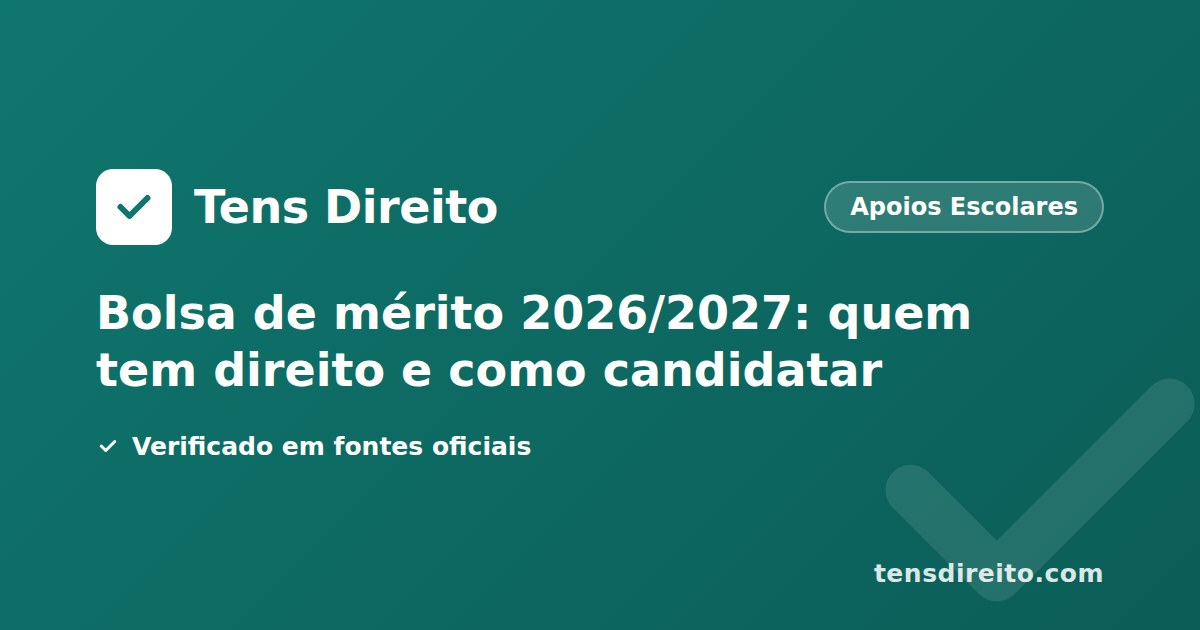
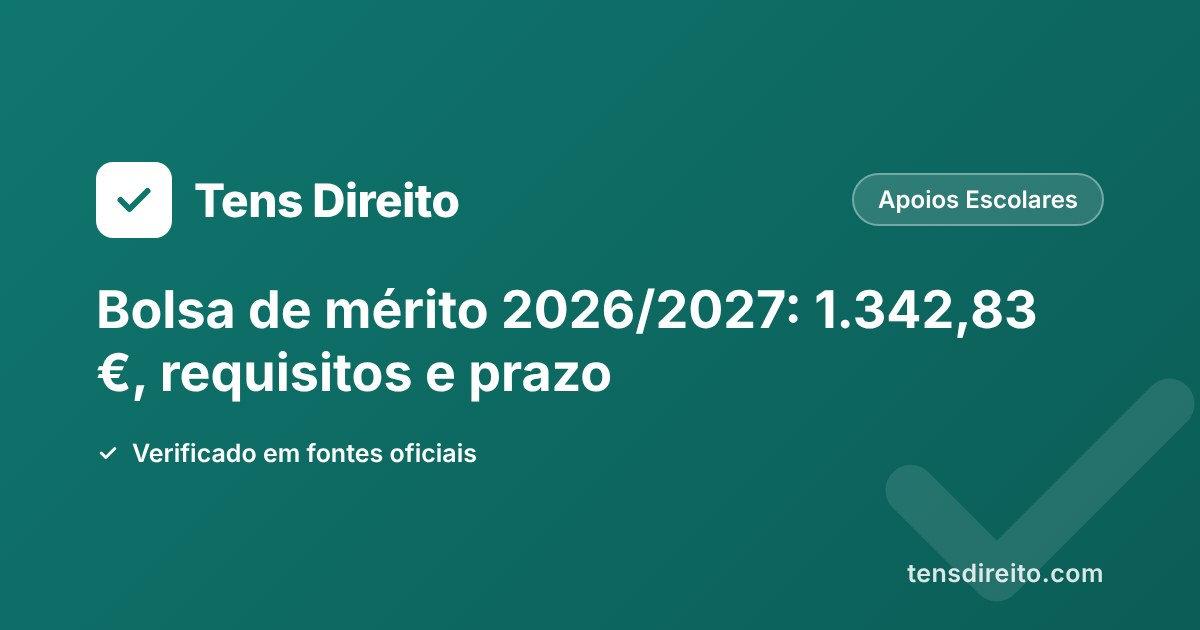
Bolsa de mérito: valor no title, candidaturas 2026/2027 encerradas (#311)
- Title "Bolsa de mérito 2026/2027: 1.342,83 €, requisitos e prazo"
  (og:title igual, imagem og regenerada) + canário 2,5 × IAS no title.
- Resposta directa, resumo, caixa do prazo e description: candidaturas
  de 2026/2027 terminaram a 30/09/2026; próxima até 30/09/2027.
- FAQ nova "valor no 11.º ano" (corpo + JSON-LD): igual nos três anos.
- Retirado "não costuma haver prorrogações" (não verificado) + teste.
- Carimbo 05/10/2026; sitemap lastmod sincronizado.

Claude-Session: https://claude.ai/code/session_01JDbJfu842cMSt3E98Qps5L

diff --git a/bolsa-de-merito.html b/bolsa-de-merito.html
@@ -13,10 +13,10 @@
   <meta name="viewport" content="width=device-width, initial-scale=1.0">
   <meta name="robots" content="index, follow">
   <link rel="sitemap" type="application/xml" href="/sitemap.xml">
-  <title>Bolsa de mérito 2026/2027: quem tem direito e como candidatar</title>
-  <meta name="description" content="Quem tem direito à bolsa de mérito, requisitos de nota e como candidatar em 2026/2027. Candidaturas em setembro. Valor: 1.342,83 €. Verificado a 25/08/2026.">
-  <meta property="og:title" content="Bolsa de mérito 2026/2027: quem tem direito e como candidatar">
-  <meta property="og:description" content="Quem tem direito à bolsa de mérito, requisitos de nota e como candidatar em 2026/2027. Candidaturas em setembro. Valor: 1.342,83 €. Verificado a 25/08/2026.">
+  <title>Bolsa de mérito 2026/2027: 1.342,83 €, requisitos e prazo</title>
+  <meta name="description" content="Bolsa de mérito 2026/2027: 1.342,83 €, igual no 10.º, 11.º e 12.º ano. As candidaturas terminaram a 30/09/2026; a próxima é até 30/09/2027. Verificado a 05/10/2026.">
+  <meta property="og:title" content="Bolsa de mérito 2026/2027: 1.342,83 €, requisitos e prazo">
+  <meta property="og:description" content="Bolsa de mérito 2026/2027: 1.342,83 €, igual no 10.º, 11.º e 12.º ano. As candidaturas terminaram a 30/09/2026; a próxima é até 30/09/2027. Verificado a 05/10/2026.">
   <meta property="og:url" content="https://tensdireito.com/bolsa-de-merito.html">
   <link rel="canonical" href="https://tensdireito.com/bolsa-de-merito.html">
   <meta property="og:type" content="article">
@@ -25,7 +25,7 @@
   <meta property="og:image" content="https://tensdireito.com/assets/img/og/bolsa-de-merito.jpg">
   <meta property="og:image:width" content="1200">
   <meta property="og:image:height" content="630">
-  <meta property="og:image:alt" content="Bolsa de mérito 2026/2027: quem tem direito e como candidatar">
+  <meta property="og:image:alt" content="Bolsa de mérito 2026/2027: 1.342,83 €, requisitos e prazo">
   <meta name="twitter:card" content="summary_large_image">
 
   <style>
@@ -128,7 +128,15 @@ summary h3 { display: inline; font-size: 1rem; font-weight: 600; margin: 0; }
         "name": "Qual é o valor da bolsa de mérito em 2026/2027?",
         "acceptedAnswer": {
           "@type": "Answer",
-          "text": "O valor da bolsa de mérito corresponde sempre a 2,5 vezes o IAS em vigor no início do ano letivo — nunca depende de um despacho próprio, só da Portaria anual do IAS. Para 2026/2027, com o IAS 2026 já em vigor (537,13 €), o valor é 1.342,83 €. É pago em 3 prestações: 40% no 1.º período, 30% no 2.º e 30% no 3.º. Verificado a 25/08/2026 com base no Despacho n.º 8452-A/2015 e Despacho n.º 5296/2017."
+          "text": "O valor da bolsa de mérito corresponde sempre a 2,5 vezes o IAS em vigor no início do ano letivo — nunca depende de um despacho próprio, só da Portaria anual do IAS. Para 2026/2027, com o IAS 2026 já em vigor (537,13 €), o valor é 1.342,83 €. É pago em 3 prestações: 40% no 1.º período, 30% no 2.º e 30% no 3.º. Verificado a 05/10/2026 com base no Despacho n.º 8452-A/2015 e Despacho n.º 5296/2017."
+        }
+      },
+      {
+        "@type": "Question",
+        "name": "Qual é o valor da bolsa de mérito no 11.º ano?",
+        "acceptedAnswer": {
+          "@type": "Answer",
+          "text": "É igual nos três anos do secundário — 10.º, 11.º e 12.º ano: 1.342,83 € em 2026/2027 (2,5 × IAS 2026), pago em 3 prestações de 537,13 €, 402,85 € e 402,85 €."
         }
       },
       {
@@ -176,7 +184,7 @@ summary h3 { display: inline; font-size: 1rem; font-weight: 600; margin: 0; }
             "name": "O que acontece se não entregar a candidatura à bolsa de mérito até 30 de setembro?",
             "acceptedAnswer": {
                   "@type": "Answer",
-                  "text": "Perdes o direito à bolsa nesse ano letivo. O prazo é fixo e não costuma haver prorrogações. Candidaturas fora do prazo não são aceites."
+                  "text": "Perdes o direito à bolsa nesse ano letivo. Candidaturas fora do prazo não são aceites."
             }
       },
       {
@@ -200,7 +208,7 @@ summary h3 { display: inline; font-size: 1rem; font-weight: 600; margin: 0; }
             "name": "O que acontece se não entregar a candidatura à bolsa de mérito até 30 de setembro?",
             "acceptedAnswer": {
                   "@type": "Answer",
-                  "text": "Perdes o direito à bolsa nesse ano letivo. O prazo é fixo e não costuma haver prorrogações. Candidaturas fora do prazo não são aceites."
+                  "text": "Perdes o direito à bolsa nesse ano letivo. Candidaturas fora do prazo não são aceites."
             }
       },
       {
@@ -327,7 +335,7 @@ summary h3 { display: inline; font-size: 1rem; font-weight: 600; margin: 0; }
     "author": {"@id": "https://tensdireito.com/sobre.html#nvlabs"},
     "publisher": {"@id": "https://tensdireito.com/sobre.html#nvlabs"},
     "datePublished": "2026-06",
-    "dateModified": "2026-08-25"
+    "dateModified": "2026-10-05"
   }
   </script>
   <link rel="stylesheet" href="/assets/css/share.css">
@@ -435,7 +443,7 @@ summary h3 { display: inline; font-size: 1rem; font-weight: 600; margin: 0; }
 <!-- partilhar:fim -->
 
       <div class="resposta-direta">
-        A bolsa de mérito é um apoio anual para alunos do ensino secundário com boas notas e condição económica comprovada (escalão ASE). As candidaturas para 2026/2027 abrem em setembro de 2026. O valor é 1.342,83 € (2,5 × IAS 2026, já em vigor) — actualiza-se sozinho todos os anos com a Portaria do IAS, nunca com um despacho próprio da bolsa.
+        A bolsa de mérito é um apoio anual para alunos do ensino secundário com boas notas e condição económica comprovada (escalão ASE). Em 2026/2027 vale 1.342,83 € (2,5 × IAS 2026) — o mesmo valor no 10.º, 11.º e 12.º ano. As candidaturas para 2026/2027 terminaram a 30 de setembro de 2026; a próxima candidatura (ano letivo 2027/2028) é até 30 de setembro de 2027, ou no dia útil seguinte se essa data calhar a um fim de semana.
       </div>
     </div>
   </header>
@@ -445,12 +453,12 @@ summary h3 { display: inline; font-size: 1rem; font-weight: 600; margin: 0; }
     <div class="resumo-rapido" role="note" aria-label="Resumo rápido">
       <ul>
         <li>✅ <strong>Quem tem direito:</strong> Poderás ter direito SE estás no 10.º–12.º ano do secundário, tens escalão ASE A ou B, não reprovaste, e a tua média foi ≥ 14 valores (escala 0–20) — ou ≥ 4 valores (escala 1–5) se transitaste do 9.º ano. Não aplica a repetentes.</li>
-        <li>💶 <strong>Valor em 2026/2027:</strong> 1.342,83 € (2,5 × IAS 2026), pago em 3 prestações: 40% no 1.º período, 30% no 2.º e 30% no 3.º.</li>
-        <li>📝 <strong>Como pedir:</strong> Presencialmente na secretaria da escola, até 30 de setembro.</li>
+        <li>💶 <strong>Valor em 2026/2027:</strong> 1.342,83 € (2,5 × IAS 2026), igual no 10.º, 11.º e 12.º ano, pago em 3 prestações: 40% no 1.º período, 30% no 2.º e 30% no 3.º.</li>
+        <li>📝 <strong>Como pedir:</strong> Presencialmente na secretaria da escola, até 30 de setembro de cada ano. As candidaturas de 2026/2027 já terminaram; a próxima é até 30 de setembro de 2027.</li>
       </ul>
     </div>
 
-    <p class="prazo-topo">📅 <strong>Prazo de candidatura:</strong> até 30 de setembro.</p>
+    <p class="prazo-topo">📅 <strong>Candidaturas de 2026/2027 terminadas</strong> a 30 de setembro de 2026. <strong>Próxima candidatura (2027/2028):</strong> até 30 de setembro de 2027, ou no dia útil seguinte se essa data calhar a um fim de semana.</p>
 
     <section class="faq-geo" aria-label="Perguntas frequentes sobre a bolsa de mérito">
       <h2>Perguntas frequentes</h2>
@@ -463,6 +471,11 @@ summary h3 { display: inline; font-size: 1rem; font-weight: 600; margin: 0; }
       <div class="faq-item">
         <h3>Qual é o valor da bolsa de mérito em 2026/2027?</h3>
         <p>O valor é <strong>1.342,83 €</strong> (2,5 × IAS 2026 = 2,5 × 537,13 €), pago em 3 prestações: 537,13 € no 1.º período (40%), 402,85 € no 2.º período (30%) e 402,85 € no 3.º período (30%). O valor actualiza-se sozinho todos os anos com a Portaria do IAS — nunca com um despacho próprio da bolsa. Em 2025/2026 (IAS 2025 = 522,50 €) tinha sido 1.306,25 €.</p>
+      </div>
+
+      <div class="faq-item">
+        <h3>Qual é o valor da bolsa de mérito no 11.º ano?</h3>
+        <p>É igual nos três anos do secundário — 10.º, 11.º e 12.º ano: <strong>1.342,83 €</strong> em 2026/2027 (2,5 × IAS 2026), pago em 3 prestações de 537,13 €, 402,85 € e 402,85 €.</p>
       </div>
 
       <div class="faq-item">
@@ -547,7 +560,7 @@ summary h3 { display: inline; font-size: 1rem; font-weight: 600; margin: 0; }
           </tbody>
         </table>
       </div>
-      <p class="nota-tabela">Valores calculados com base em IAS 2026 = 537,13 €, já em vigor (Portaria n.º 480-A/2025/1). Verificado a 25/08/2026 com base no Despacho n.º 8452-A/2015 e Despacho n.º 5296/2017.</p>
+      <p class="nota-tabela">Valores calculados com base em IAS 2026 = 537,13 €, já em vigor (Portaria n.º 480-A/2025/1). Verificado a 05/10/2026 com base no Despacho n.º 8452-A/2015 e Despacho n.º 5296/2017.</p>
 
       <div class="aviso" style="margin-top:1rem;">
         <strong>Como se actualiza:</strong> O valor da bolsa de mérito é sempre 2,5 × o IAS em vigor no início do ano letivo, fixado pelo Despacho n.º 8452-A/2015 — não existe um despacho próprio da bolsa, nem revisão anual do multiplicador. Actualiza-se sozinho todos os anos com a Portaria do IAS (tipicamente publicada em dezembro/janeiro). Em 2025/2026, com IAS 2025 = 522,50 €, o valor tinha sido 1.306,25 €.
@@ -637,8 +650,8 @@ summary h3 { display: inline; font-size: 1rem; font-weight: 600; margin: 0; }
       <details>
         <summary><h3>O que acontece se não entregar a candidatura até 30 de setembro?</h3></summary>
         <div class="resposta">
-          <p>Perderás o direito à bolsa nesse ano letivo. O prazo é fixo — não costuma haver prorrogações. Candidaturas entregues fora do prazo não são aceites.</p>
-          <p class="fonte-inline">Fonte: Despacho n.º 8452-A/2015, Diário da República · Verificado a 24/06/2026</p>
+          <p>Perderás o direito à bolsa nesse ano letivo. Candidaturas entregues fora do prazo não são aceites.</p>
+          <p class="fonte-inline">Fonte: Despacho n.º 8452-A/2015, Diário da República · Verificado a 05/10/2026</p>
         </div>
       </details>
     </section>
@@ -663,7 +676,7 @@ summary h3 { display: inline; font-size: 1rem; font-weight: 600; margin: 0; }
       Despacho n.º 8452-A/2015 — regulamento das bolsas de mérito<br>
       Despacho n.º 5296/2017 — alteração ao regulamento<br>
       <a href="https://dre.pt" target="_blank" rel="noopener">Diário da República (dre.pt)</a><br>
-      Verificado a 25 de agosto de 2026 pela redação do <a href="/sobre.html#metodo">Tens Direito</a><!-- REPORTAR-ERRO:INICIO --> · <a class="reportar-erro" href="/sobre.html#contacto">Reportar um erro nesta página</a><!-- REPORTAR-ERRO:FIM --> · IAS 2025: 522,50 € · IAS 2026: 537,13 € (Portaria em vigor)
+      Verificado a 05/10/2026 pela redação do <a href="/sobre.html#metodo">Tens Direito</a><!-- REPORTAR-ERRO:INICIO --> · <a class="reportar-erro" href="/sobre.html#contacto">Reportar um erro nesta página</a><!-- REPORTAR-ERRO:FIM --> · IAS 2025: 522,50 € · IAS 2026: 537,13 € (Portaria em vigor)
     </div>
 
     <!-- DISCLAIMER -->

diff --git a/tests/test_valores_ancora.py b/tests/test_valores_ancora.py
@@ -234,6 +234,18 @@ def test_bolsa_merito_meta_description_valor_2_5x_ias():
     assert _valores_eur(desc) == [round(2.5 * IAS_2026, 2)], desc
 
 
+def test_bolsa_merito_title_valor_2_5x_ias():
+    # Title passou a citar o valor a 2026-10-05 (SEO) — mesmo canário da
+    # description: sobe com a Portaria do IAS, nunca com despacho próprio.
+    assert _valores_eur(_title("bolsa-de-merito.html")) == [round(2.5 * IAS_2026, 2)]
+
+
+def test_bolsa_merito_nao_promete_ausencia_de_prorrogacoes():
+    # "não costuma haver prorrogações" nunca foi verificado — retirado a
+    # 2026-10-05; não pode voltar sem fonte.
+    assert "prorroga" not in _ler("bolsa-de-merito.html")
+
+
 def test_bolsa_merito_og_tags_espelham_title_e_description():
     assert _meta_og("bolsa-de-merito.html", "og:title") == _title("bolsa-de-merito.html")
     assert _meta_og("bolsa-de-merito.html", "og:description") == _meta_description("bolsa-de-merito.html")

diff --git a/CLAUDE.md b/CLAUDE.md
@@ -1023,6 +1023,7 @@ padrões de €/%. Resultado, com a cobertura adicionada:
 | `subsidio-desemprego.html` (description) | 537,13€ + 1.342,83€ | 100%/2,5× IAS | `test_subsidio_desemprego_meta_description_piso_e_teto_ias` |
 | `cuidador-informal.html` (description) | 590,84€ | 1,1 × IAS | `test_cuidador_informal_meta_description_valor_1_1x_ias` |
 | `acao-social-escolar.html` (description) | nenhum valor em € desde a issue #295 (o escalão da ASE é o do abono) — o canário garante que não volta a aparecer nenhum | — | `test_acao_social_escolar_meta_description_sem_valor_legal` |
+| `bolsa-de-merito.html` (`<title>` + description) | 1.342,83€ | 2,5 × IAS | `test_bolsa_merito_title_valor_2_5x_ias`, `test_bolsa_merito_meta_description_valor_2_5x_ias` |
 | `baixa-medica-subsidio-doenca.html` (description) | 55%/75% | via `taxaEscalao1`/`4` do simulador | `test_baixa_medica_meta_description_percentagens_batem_com_simulador` |
 | `simulador-subsidio-doenca.html` (description) | 55%/75% | idem, mesmo ficheiro | `test_simulador_subsidio_doenca_meta_description_percentagens_batem_com_o_js` |
 | `abono-de-familia.html` (description) | 190,98€ | nenhuma (Portaria própria) — canário de consistência com a tabela do corpo | `test_abono_meta_description_bate_com_tabela_do_artigo` |

diff --git a/HISTORICO.md b/HISTORICO.md
@@ -7160,6 +7160,22 @@ telemóvel). Removidas as duas tags a mais. Guarda nova:
 falha com `<style>` aninhado, `</style>` órfão ou bloco por fechar) — provado
 a falhar sem a correcção. Só esta página tinha o problema.
 
+
+### Última revisão: 2026-10-06 — `bolsa-de-merito.html`: SEO e prazo encerrado
+
+Title "Bolsa de mérito 2026/2027: 1.342,83 €, requisitos e prazo" (57
+caracteres; `og:title` igual e imagem og regenerada). Resposta directa,
+resumo e caixa do prazo dizem que as candidaturas de 2026/2027 terminaram a
+30/09/2026 e que a próxima (2027/2028) é até 30/09/2027 ou dia útil seguinte
+— sem valor de 2027/2028 (depende do IAS 2027). FAQ nova "valor no 11.º ano"
+(corpo + JSON-LD): igual nos três anos. Retirado "não costuma haver
+prorrogações" (nunca verificado; 3 sítios). Valores e prazo reconfirmados
+pelo Nuno; carimbo 05/10/2026. Testes novos: valor do title = 2,5 × IAS, e
+"prorroga" ausente da página. Diagnóstico: `verificar_datas.py` não apanhou
+"abrem em setembro de 2026" porque só considera anos anteriores ao corrente
+e `data_mes_ano` só é revisto em jan/jul/ago/set — proposta (não aplicada)
+no resumo da sessão.
+
 ---
 
 *Última revisão automática: 2026-10-05*
